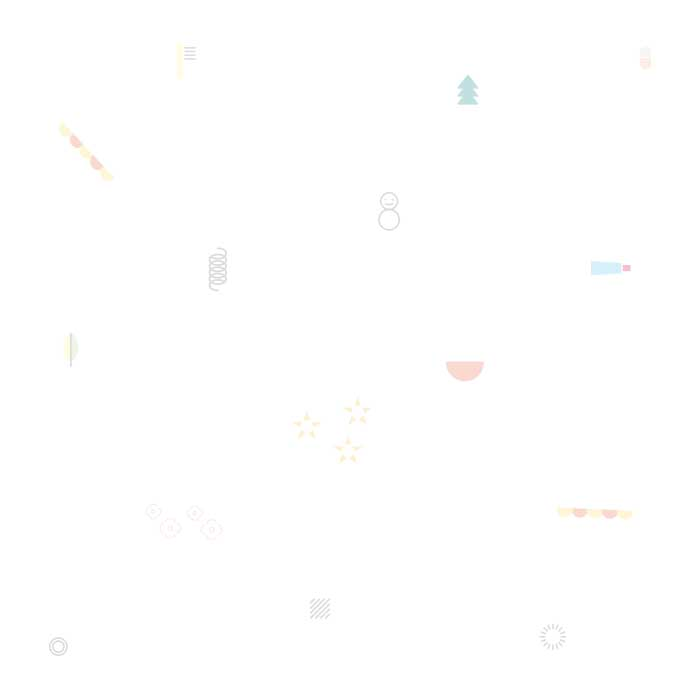
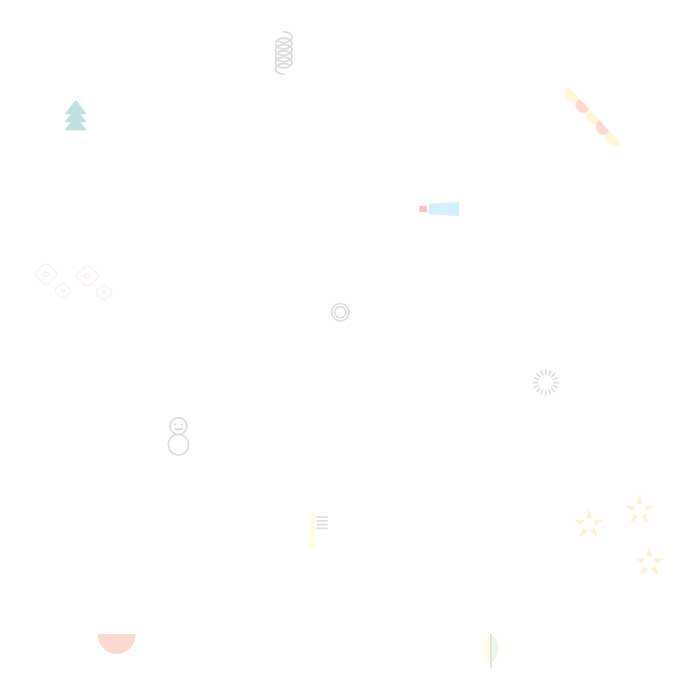
微修正

diff --git a/index.php b/index.php
@@ -74,21 +74,20 @@ require_once(dirname(__FILE__) . '/parts/nav-mobile.php');
 
 <?
 for ($i=1; $i<=6; $i++) :
-if ($i == 12) $i++;
-if (!($i == 9 || $i == 10 || $i == 13)) :
+    if (!($i == 9 || $i == 10 || $i == 13)) :
 ?>
                 <div class="p2-illust-<? echo $i ?>">
                     <img class="anim-<? echo $i ?>" src="<? bloginfo('template_directory') ?>/compass/images/animation/<? echo $i ?>.png" srcset="<? bloginfo('template_directory') ?>/compass/images/animation/<? echo $i ?>@2x.png 2x">
                 </div>
 <?
-else :
+    else :
 ?>
                 <div class="p2-illust-<? echo $i ?>">
                     <img class="anim-<? echo $i ?>-1" src="<? bloginfo('template_directory') ?>/compass/images/animation/<? echo $i ?>-1.png" srcset="<? bloginfo('template_directory') ?>/compass/images/animation/<? echo $i ?>[email redacted] 2x">
                     <img class="anim-<? echo $i ?>-2" src="<? bloginfo('template_directory') ?>/compass/images/animation/<? echo $i ?>-2.png" srcset="<? bloginfo('template_directory') ?>/compass/images/animation/<? echo $i ?>[email redacted] 2x">
                 </div>
 <?
-endif;
+    endif;
 endfor;
 ?>
             </div>
@@ -97,13 +96,13 @@ endfor;
         <div class="col-sm-6">
             <p class="bold text-center line-height-2" style="margin-top: 60px;">
                 はじめまして。<br>
-                「矯正歯科 e g a o 」を北海道・札幌の桑園で開院する生野啓一郎と申します。<br>
+                「矯正歯科 e g a o 」を北海道・札幌の桑園で開院する<br class="hidden-xs">生野啓一郎と申します。<br>
                 <br>
                 わたしは矯正歯科の専門医です。<br>
                 矯正治療は、それぞれの好み、ライフスタイル、性格など、<br class="hidden-xs">
                 １人１人の個性に合わせてゴールまでたどりつく壮大な治療です。<br>
                 また、幾度かの通院で終わるものではなく、<br class="hidden-xs">
-                何年も、それこそ時には世代を超えて長いお付き合いをしていく可能性もございます。<br>
+                何年も、それこそ時には世代を超えて長いお付き合いをしていく<br class="hidden-xs">可能性もございます。<br>
                 <br>
                 たくさんの皆様と矯正の専門医として丁寧で、深く、<br class="hidden-xs">
                 温かい関係を築きたいと思い開院することにしました。<br>
@@ -121,21 +120,21 @@ endfor;
 
 <?
 for ($i=7; $i<=13; $i++) :
-if ($i == 12) $i++;
-if (!($i == 9 || $i == 10 || $i == 13)) :
+    if ($i == 12 || $i == 9) $i++;
+    if (!($i == 9 || $i == 10 || $i == 13)) :
 ?>
                 <div class="p2-illust-<? echo $i ?>">
                     <img class="anim-<? echo $i ?>" src="<? bloginfo('template_directory') ?>/compass/images/animation/<? echo $i ?>.png" srcset="<? bloginfo('template_directory') ?>/compass/images/animation/<? echo $i ?>@2x.png 2x">
                 </div>
 <?
-else :
+    else :
 ?>
                 <div class="p2-illust-<? echo $i ?>">
                     <img class="anim-<? echo $i ?>-1" src="<? bloginfo('template_directory') ?>/compass/images/animation/<? echo $i ?>-1.png" srcset="<? bloginfo('template_directory') ?>/compass/images/animation/<? echo $i ?>[email redacted] 2x">
                     <img class="anim-<? echo $i ?>-2" src="<? bloginfo('template_directory') ?>/compass/images/animation/<? echo $i ?>-2.png" srcset="<? bloginfo('template_directory') ?>/compass/images/animation/<? echo $i ?>[email redacted] 2x">
                 </div>
 <?
-endif;
+    endif;
 endfor;
 ?>
             </div>
@@ -322,7 +321,7 @@ while ( have_posts() ) : the_post();
             <img src="<? bloginfo('template_directory') ?>/compass/images/top-title-children.png" srcset="<? bloginfo('template_directory') ?>/compass/images/[email redacted] 2x">
         </h4>
         <br>
-        <p class="text-center">週1程度 (14:30-18:00) / 曜日不定(診察カレンダーで確認できます)</p>
+        <p class="text-center">週1程度 (9:30~17:00) / 曜日不定(診察カレンダーで確認できます)</p>
 
         <h4 class="text-center bold tracking-1" style="margin-top: 100px;">診療カレンダー</h4>
         <h1 class="text-center">
@@ -340,7 +339,7 @@ while ( have_posts() ) : the_post();
         <div class="row" style="margin-top: 30px; margin-bottom: 40px;">
             <div class="col-sm-6 text-center">
                 <h3 class="bold">電車でお越しの方</h3>
-                <p>JR桑園駅徒歩5分 イオン桑園店徒歩3分</p>
+                <p>JR桑園駅から徒歩5分 イオン桑園店から徒歩2分</p>
             </div><!-- /.col -->
             <div class="col-sm-6 text-center">
                 <h3 class="bold">お車でお越しの方</h3>

diff --git a/parts/nested.php b/parts/nested.php
@@ -19,6 +19,9 @@ for($i=0; $i<40; $i++) :
 <?
         else :
             // 2枚もの
+            if ($animIndex == 9) {
+                $animIndex == 10;    // カプセルは不採用
+            }
 ?>
             <div class="top-illust-<? echo $animIndex ?>">
                 <img class="anim-<? echo $animIndex ?>-1" src="<? bloginfo('template_directory') ?>/compass/images/animation/<? echo $animIndex ?>-1.png" srcset="<? bloginfo('template_directory') ?>/compass/images/animation/<? echo $animIndex ?>[email redacted] 2x">

diff --git a/parts/icons-xs.php b/parts/icons-xs.php
@@ -5,7 +5,7 @@
 
 <?
 	for ($i=1; $i<=13; $i++) :
-		if ($i == 12) $i++;
+        if ($i == 12 || $i == 9) $i++;
 		if (!($i == 9 || $i == 10 || $i == 13)) :
 ?>
 					<div class="p2-illust-<? echo $i ?>">